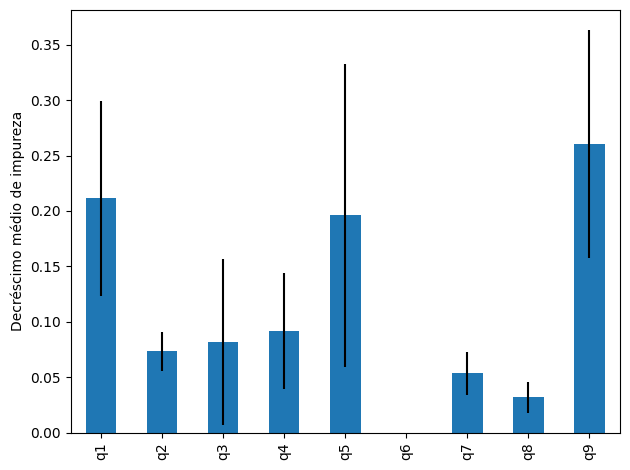
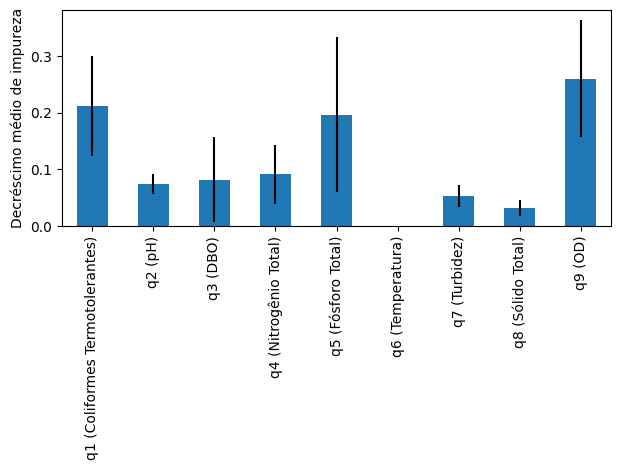
refactor: put parameter names on feature selection rankings

diff --git a/README.md b/README.md
@@ -1,4 +1,2 @@
 # Machine Learning models for obtaining WQI: a study in Billings Reservoir
 Machine Learning research project done at UFABC
-
-If you are going to use this project, or part of it, you should mention the authors: Matheus Cardoso da Silva, Dra. Camila Clementina Arantes and Dr. Paulo Henrique Pisani
